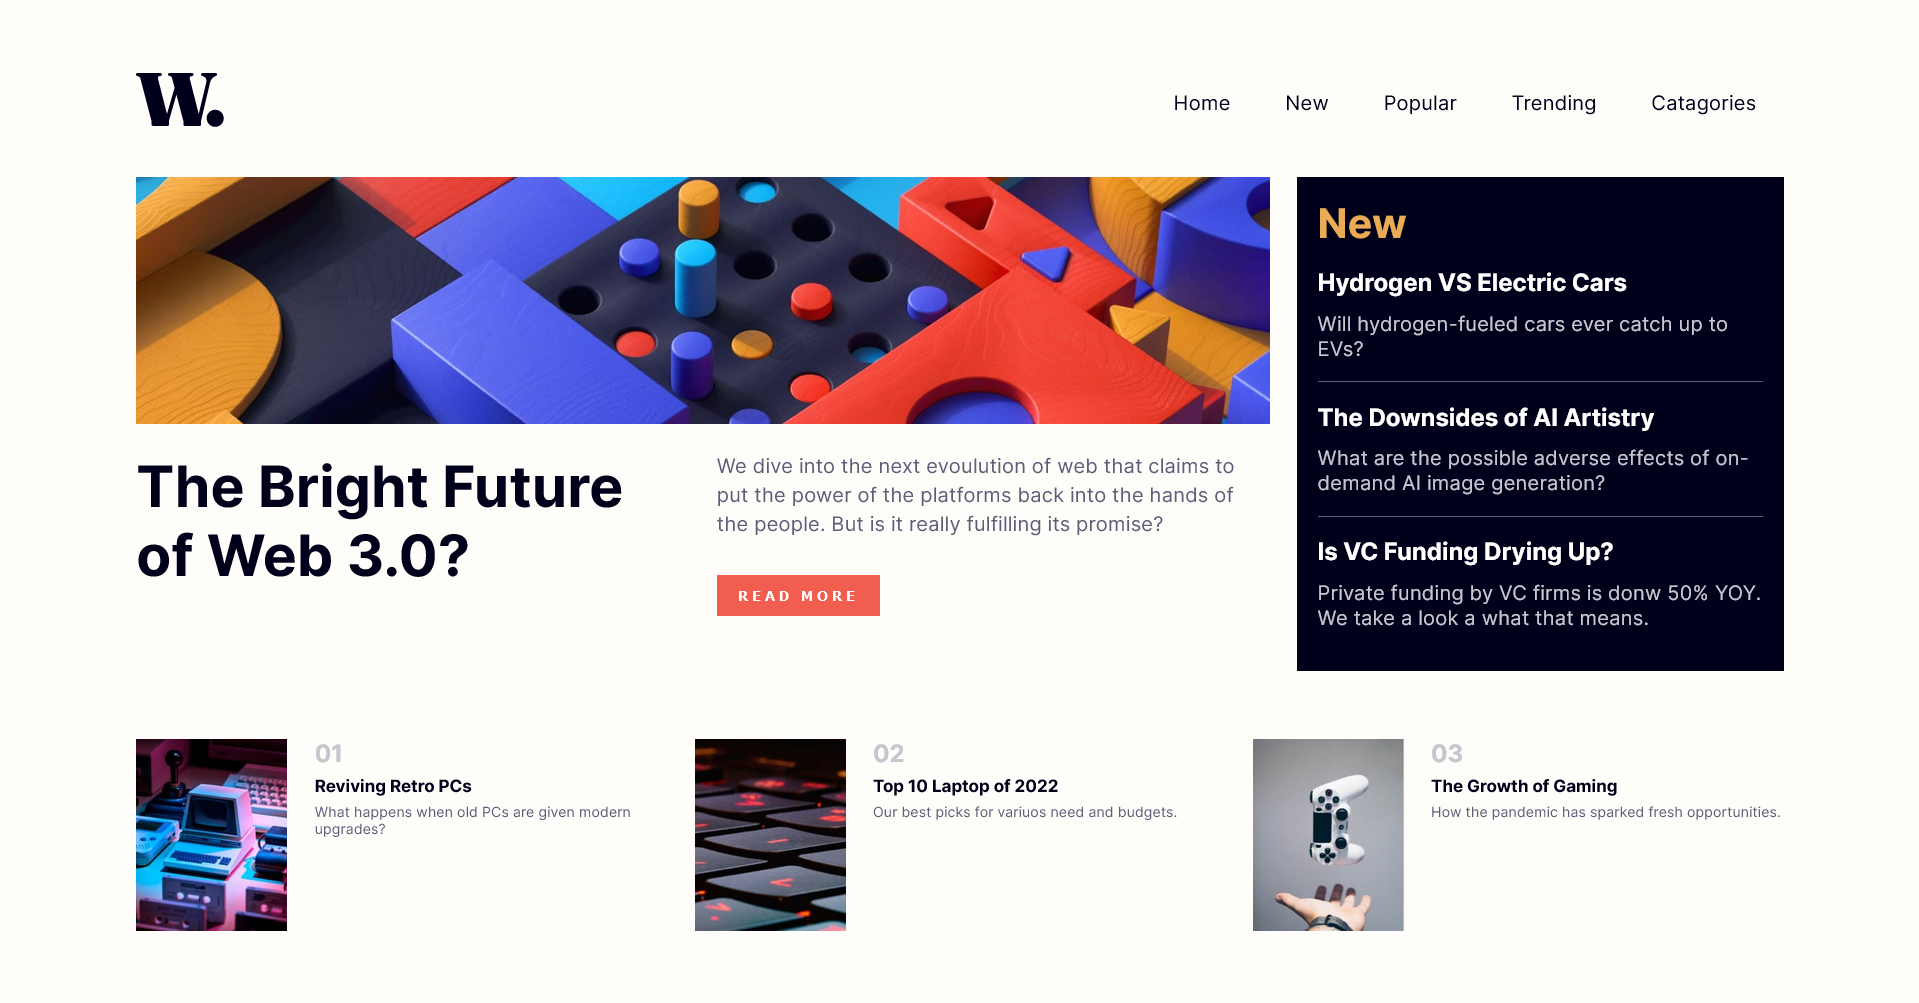
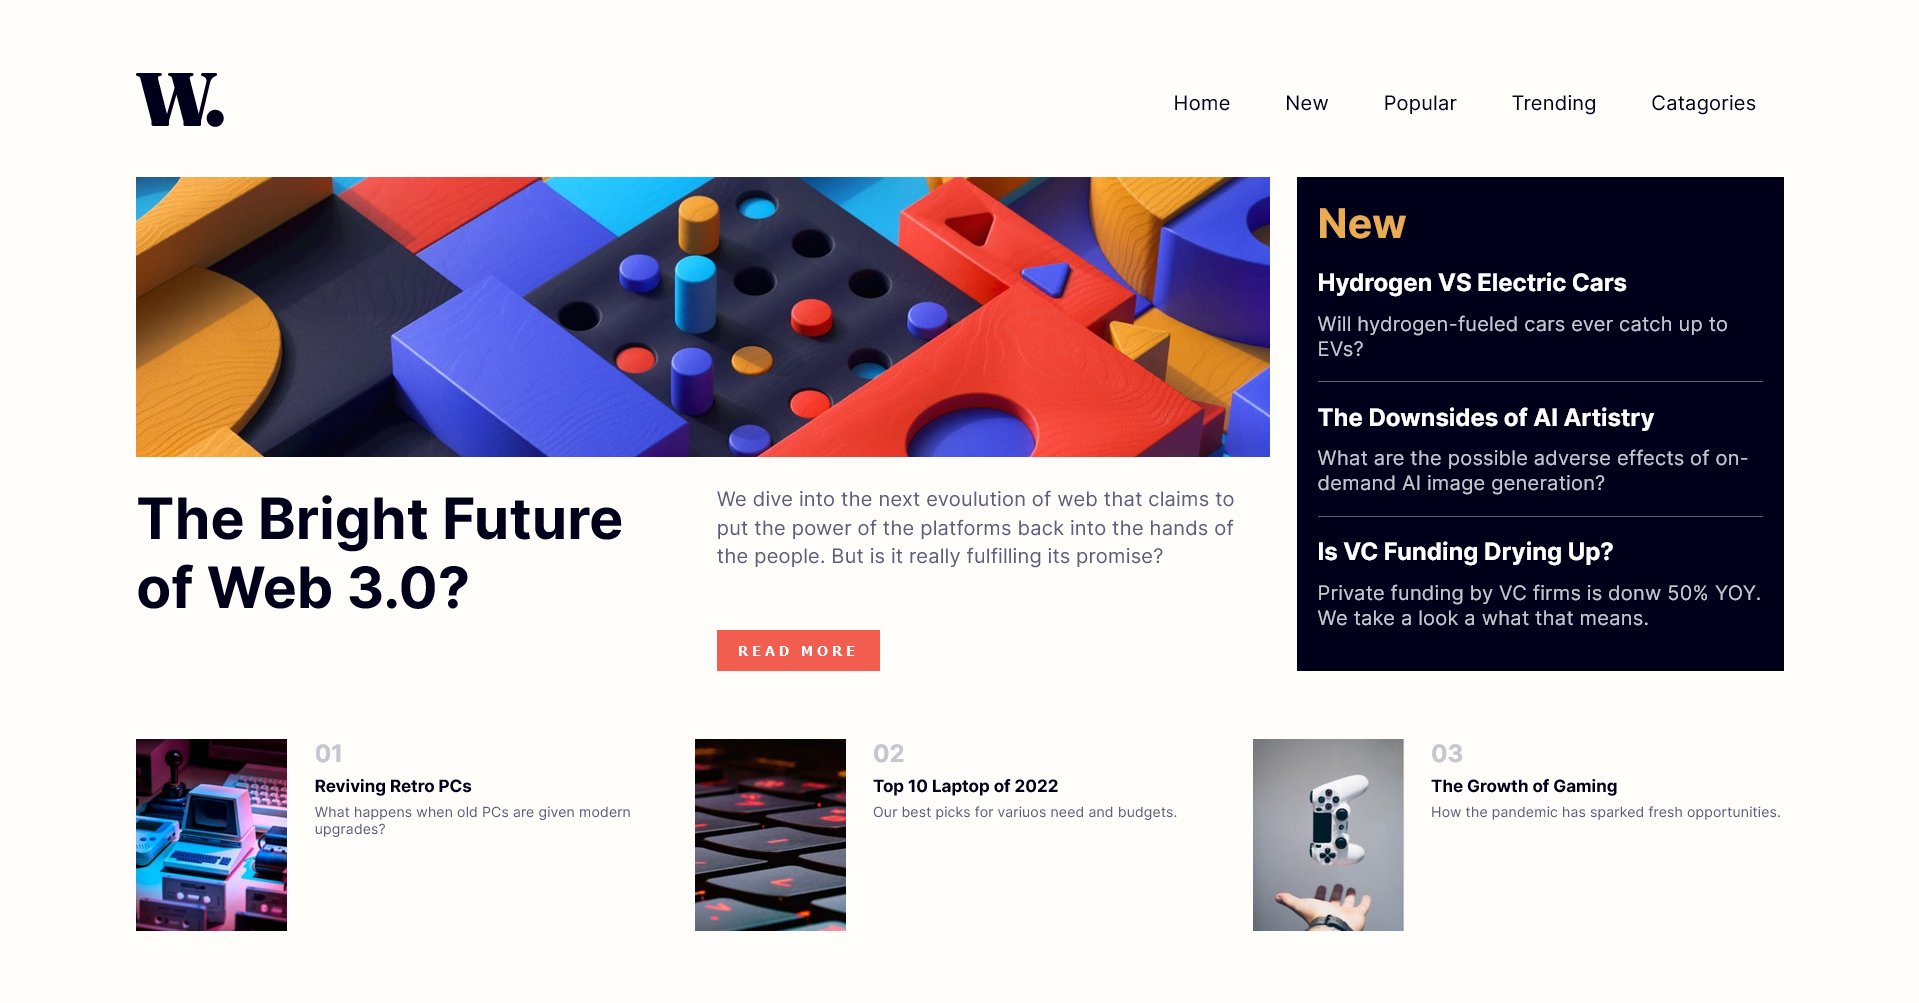
update style.css

Changed region(s): [[0.0615, 0.1545, 0.6764, 0.68]]

diff --git a/style.css b/style.css
@@ -88,10 +88,10 @@ header {
 }
 
 .nav-bar ul li:hover {
-    color: var(--soft-orange);
+    color: var(--soft-red);
 }
 
-.main-container, .top, .top-left, .left-bottom, .bottom-right, .top-right, {
+.main-container, .top, .top-left, .left-bottom, .bottom-right, .top-right {
     display: flex;
     flex-direction: column;
 }
@@ -208,11 +208,6 @@ header {
 
 
 @media screen and (min-width: 600px) {
-    *, *::after, *::before {
-        margin: 0;
-        padding: 0;
-    }
-
     .menu-icon, .close-icon {
         display: none;
     }
@@ -237,21 +232,23 @@ header {
     }
 
     .nav-bar {
-        display: flex;
         margin: 0;
     }
 
     .nav-bar ul {
-        display: flex;
+        display: flex;    
     }
 
     .nav-bar ul li {
+        margin: 0;
+        margin-left: 30px;
         font-size: 1rem;
     }
 
     .top {
         flex-basis: 70%;
         display: flex;
+        flex-direction: row;
         margin-bottom: 50px;
     }
 
@@ -259,6 +256,7 @@ header {
         flex-basis: 70%;
         display: flex;
         flex-direction: column;
+        margin: 0;
         margin-right: 20px;
     }
 
@@ -271,10 +269,12 @@ header {
     .left-bottom {
         flex-basis: 40%;
         display: flex;
+        flex-direction: row;
     }
 
     .bottom-left {
         flex-basis: 50%;
+        margin: 0;
         margin-right: 20px;
     }
 
@@ -283,11 +283,13 @@ header {
         display: flex;
         flex-direction: column;
         justify-content: space-between;
+        margin: 0;
     }
 
     .bottom-right p {
         font-size: 1rem;
         line-height: 1.4rem;
+        margin: 0;
     }
 
 
